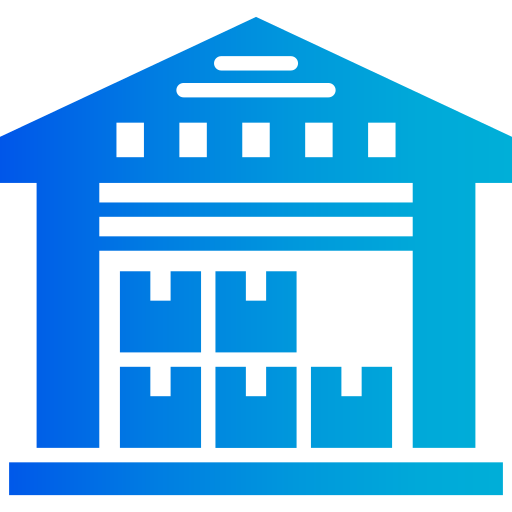
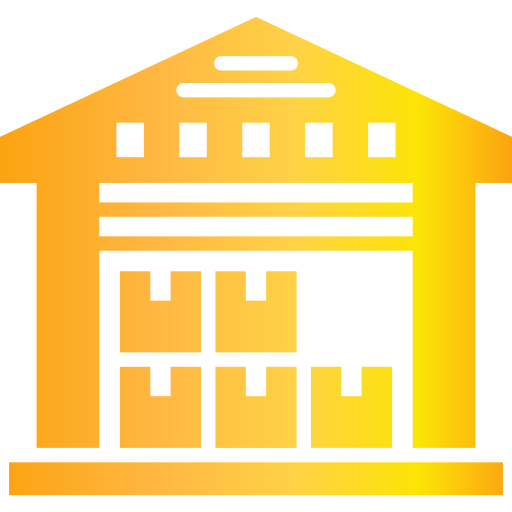
implemented Insert, Update, Delete

diff --git a/src/app/pages/item-list/item-list.ts b/src/app/pages/item-list/item-list.ts
@@ -1,8 +1,6 @@
 import { Component, signal } from '@angular/core';
 import { ItemService } from '../../services/item-service';
-import { AsyncPipe } from '@angular/common';
-import { Observable } from 'rxjs';
-import { Item } from '../../services/itemType';
+import { Item, ItemReq } from '../../services/itemType';
 import { ButtonModule } from 'primeng/button';
 import { DialogModule } from 'primeng/dialog';
 import { InputTextModule } from 'primeng/inputtext';
@@ -11,12 +9,12 @@ import { Router } from '@angular/router';
 @Component({
   selector: 'app-item-list',
   standalone: true,
-  imports: [AsyncPipe, ButtonModule, DialogModule, InputTextModule],
+  imports: [ButtonModule, DialogModule, InputTextModule],
   templateUrl: './item-list.html',
   styleUrl: './item-list.css',
 })
 export class ItemList {
-  allItems = signal<Observable<Item[]> | undefined>(undefined);
+  allItems = signal<Item[]>([]);
 
   constructor(
     private itemService: ItemService,
@@ -24,17 +22,74 @@ export class ItemList {
   ) {}
 
   ngOnInit() {
-    this.allItems.set(this.itemService.getAllItem());
+    this.itemService.getAllItem().subscribe({
+      next: (data) => {
+        this.allItems.set(data);
+      },
+      error: (err) => {
+        console.log(err);
+      },
+    });
   }
 
-  onDelete(id: number) {
-    this.itemService.deleteItem(id).subscribe(() => {
-      this.allItems.set(this.itemService.getAllItem());
+  itemData: ItemReq | undefined;
+  onInsert() {
+    const inpItemName = (document.querySelector('#inpItemName') as HTMLInputElement).value;
+    const inpItemCode = Number((document.querySelector('#inpItemCode') as HTMLInputElement).value);
+    this.itemData = {
+      itemName: inpItemName,
+      itemCode: inpItemCode,
+    };
+
+    this.itemService.insertItem(this.itemData).subscribe({
+      next: (data) => {
+        alert('Item Added Successfully');
+        this.allItems.update((i) => [...i, data]);
+      },
+      error: (err) => {
+        console.log('err' + err);
+      },
     });
-    alert('Data Deleted');
+  }
+
+  /*---------------------------------------------------------------------------------------------------*/
+
+  confirmdata: boolean = false;
+  onDelete(id: number) {
+    this.confirmdata = confirm('Are you sure for Delete Item');
+
+    if (this.confirmdata.valueOf()) {
+      this.itemService.deleteItem(id).subscribe({
+        next: () => {
+          alert('Data Deleted Successfully');
+          this.allItems.update((i) => i?.filter((u) => u.itemId !== id));
+        },
+        error: (err) => {
+          alert("Data doesn't Deleted with Error: " + err.Message);
+        },
+      });
+    } else {
+      this.router.navigate(['/']);
+    }
   }
 
   onUpdate(id: number) {
     this.router.navigate(['/edit', id]);
   }
+
+  // searchedItemD = signal<Item[] | undefined>(undefined);
+  // onSearch() {
+  //   const searchedItem = (document.querySelector('#searchBar') as HTMLInputElement).value;
+  //   // console.log(searchedItem);
+
+  //   if (!searchedItem.trim()) return;
+  //   this.itemService.searchItem(searchedItem).subscribe({
+  //     next: (data) => {
+  //       this.searchedItemD.set(data);
+  //     },
+  //     error: (err) => console.error(err),
+  //   });
+
+  //   console.log(this.searchedItemD());
+  // }
 }

diff --git a/src/app/pages/item-list/item-list.html b/src/app/pages/item-list/item-list.html
@@ -1,8 +1,15 @@
 <h3>Item List</h3>
 <div class="heading">
-  <input type="text" placeholder="Serch your item" />
+  <input type="text" placeholder="Serch your item" id="searchBar" />
   <button type="button" class="btn btn-sm add">Search</button>
-  <button type="button" class="btn btn-sm add">Add Item</button>
+  <button
+    type="button"
+    class="btn btn-sm add"
+    data-bs-toggle="modal"
+    data-bs-target="#exampleModal"
+  >
+    Add Item
+  </button>
 </div>
 <table cellPadding="8">
   <tr>
@@ -10,7 +17,7 @@
     <th>Item Name</th>
     <th>Item Code</th>
   </tr>
-  @for (l of allItems() | async; track l.itemId) {
+  @for (l of allItems(); track l.itemId) {
     <tr>
       <td>{{ l.itemId }}</td>
       <td>{{ l.itemName }}</td>
@@ -26,3 +33,40 @@
     </tr>
   }
 </table>
+@if (confirmdata) {
+  <div class="alert alert-success" role="alert">Item Delete Successfully</div>
+}
+
+<!-- Modal -->
+<div
+  class="modal fade"
+  id="exampleModal"
+  tabindex="-1"
+  aria-labelledby="exampleModalLabel"
+  aria-hidden="true"
+>
+  <div class="modal-dialog">
+    <div class="modal-content">
+      <div class="modal-header">
+        <h1 class="modal-title fs-5" id="exampleModalLabel">Enter Item Information</h1>
+        <button type="button" class="btn-close" data-bs-dismiss="modal" aria-label="Close"></button>
+      </div>
+      <div class="modal-body">
+        <table cellPadding="4" id="modelTable">
+          <tr>
+            <th>Item Name</th>
+            <td><input type="text" id="inpItemName" placeholder="Enter Item Name" /></td>
+          </tr>
+          <tr>
+            <th>Item Code</th>
+            <td><input type="text" id="inpItemCode" placeholder="Enter Item Code" /></td>
+          </tr>
+        </table>
+      </div>
+      <div class="modal-footer">
+        <button type="button" class="btn btn-secondary" data-bs-dismiss="modal">Close</button>
+        <button type="button" class="btn btn-success" (click)="onInsert()">Save changes</button>
+      </div>
+    </div>
+  </div>
+</div>

diff --git a/src/app/pages/update-page/update-page.ts b/src/app/pages/update-page/update-page.ts
@@ -2,6 +2,7 @@ import { Component } from '@angular/core';
 import { FormControl, FormGroup, ReactiveFormsModule, Validators } from '@angular/forms';
 import { ActivatedRoute, Router } from '@angular/router';
 import { ItemService } from '../../services/item-service';
+import { ItemReq } from '../../services/itemType';
 
 @Component({
   selector: 'app-update-page',
@@ -22,12 +23,13 @@ export class UpdatePage {
     private router: Router,
   ) {}
 
+  id: number = 0;
   ngOnInit() {
     this.route.paramMap.subscribe((params) => {
-      const id = Number(params.get('id'));
+      this.id = Number(params.get('id'));
 
-      if (id) {
-        this.itemService.getItemById(id).subscribe({
+      if (this.id) {
+        this.itemService.getItemById(this.id).subscribe({
           next: (data) => {
             this.itemForm.patchValue(data);
           },
@@ -36,6 +38,24 @@ export class UpdatePage {
           },
         });
       }
+    });
+  }
+
+  onUpdate() {
+    const itemUpdateData: ItemReq = {
+      itemName: this.itemForm.value.itemName!,
+      itemCode: this.itemForm.value.itemCode!,
+    };
+
+    this.itemService.updateItem(this.id, itemUpdateData).subscribe({
+      next: () => {
+        alert('Data Updated');
+        this.router.navigate(['/']);
+      },
+      error: (err) => {
+        console.log('Error ', err);
+        alert('Error Message: ' + err.message);
+      },
     });
   }
 }

diff --git a/src/index.html b/src/index.html
@@ -13,6 +13,18 @@
       rel="stylesheet"
     />
     <link href="https://fonts.googleapis.com/icon?family=Material+Icons" rel="stylesheet" />
+    <link
+      href="https://cdn.jsdelivr.net/npm/bootstrap@5.3.8/dist/css/bootstrap.min.css"
+      rel="stylesheet"
+      integrity="sha384-sRIl4kxILFvY47J16cr9ZwB07vP4J8+LH7qKQnuqkuIAvNWLzeN8tE5YBujZqJLB"
+      crossorigin="anonymous"
+    />
+    <script
+      defer
+      src="https://cdn.jsdelivr.net/npm/bootstrap@5.3.8/dist/js/bootstrap.bundle.min.js"
+      integrity="sha384-FKyoEForCGlyvwx9Hj09JcYn3nv7wiPVlz7YYwJrWVcXK/BmnVDxM+D2scQbITxI"
+      crossorigin="anonymous"
+    ></script>
   </head>
   <body>
     <app-root></app-root>

diff --git a/src/app/pages/update-page/update-page.html b/src/app/pages/update-page/update-page.html
@@ -21,6 +21,6 @@
   </div>
   <div class="submitBtn">
     <button type="reset" class="btn btn-secondary me-3">Reset</button>
-    <button type="submit" class="btn btn-success">Submit</button>
+    <button type="submit" class="btn btn-success" (click)="onUpdate()">Submit</button>
   </div>
 </form>

diff --git a/src/app/app.ts b/src/app/app.ts
@@ -8,10 +8,4 @@ import { Router, RouterLink, RouterOutlet } from '@angular/router';
   templateUrl: './app.html',
   styleUrl: './app.css',
 })
-export class App {
-  constructor(private router: Router) {}
-
-  navigateHome() {
-    this.router.navigate(['/']);
-  }
-}
+export class App {}

diff --git a/src/app/services/item-service.ts b/src/app/services/item-service.ts
@@ -27,4 +27,8 @@ export class ItemService {
   deleteItem(id: number) {
     return this.http.delete(`https://localhost:7254/item/delete/${id}`);
   }
+
+  searchItem(item: string) {
+    return this.http.get<Item[]>(`https://localhost:7254/item/search/${item}`);
+  }
 }

diff --git a/src/app/pages/item-list/item-list.css b/src/app/pages/item-list/item-list.css
@@ -15,3 +15,7 @@ table th {
 .actionBtn {
   margin-right: 0.5rem;
 }
+
+#modelTable th {
+  text-align: left;
+}
